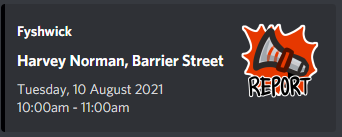
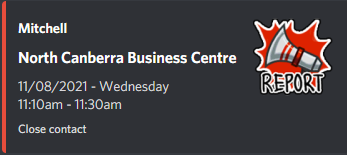
Update to parse new site format

Changed region(s): [[0.0, 0.0, 0.9649, 0.9927]]

diff --git a/bot.py b/bot.py
@@ -7,6 +7,8 @@ import sys
 import traceback
 import pickle
 import asyncio
+from datetime import datetime
+import re
 
 import discord
 from discord.ext import commands, tasks
@@ -23,30 +25,12 @@ url = 'https://www.covid19.act.gov.au/act-status-and-response/act-covid-19-expos
 def parse_url(url):
 	"""
 		Given a url, scrapes the url for cases and returns them as a pandas DataFrame
-		Inspired from: https://towardsdatascience.com/web-scraping-html-tables-with-python-c9baba21059
 	"""
 	page = requests.get(url)
-	doc = lh.fromstring(page.content)
-	tr_elements = doc.xpath('//tr')
+	page_text = page.text
+	latest_cases = re.search('".*csv"', page.text).group(0)
 
-	header = ['Status', 'Suburb', 'Place', 'Date', 'Arrival Time', 'Departure Time']
-	header2 = ['Status', 'Suburb', 'Place', 'Date', 'Arrival time', ' Departure time'] # Monitor for symptoms header is slightly different
-
-	df = dict()
-
-	i = 0
-	exposure_type = 0
-
-	for t in tr_elements:
-		content = [cell.text_content().replace('\n', '').replace('\r', '').replace('\xa0', '') for cell in t]
-
-		if (pd.Series(content) == pd.Series(header)).all() or (pd.Series(content) == pd.Series(header2)).all(): # Don't add header rows
-			exposure_type += 1
-		else:
-			df[i] = content + [exposure_type]
-			i += 1
-
-	return pd.DataFrame.from_dict(df, orient = 'index', columns = header + ['Exposure Type']).drop('Status', axis = 1) # Status column is not useful
+	return pd.read_csv(latest_cases[1:-1]).drop(['Event Id', 'Status', 'State'], axis = 1) # Remove quote marks from url
 
 class MyClient(commands.Bot):
 	server_settings = None
@@ -81,19 +65,19 @@ class MyClient(commands.Bot):
 			Given a location, send a formatted embed to the given channel
 		"""
 		suburb = location_info['Suburb']
-		place = location_info['Place'].replace('FAQs for schools', '')
+		place = location_info['Exposure Site'].replace('FAQs for schools', '')
 		date = location_info['Date']
 		arrival = location_info['Arrival Time']
 		departure = location_info['Departure Time']
-		severity = location_info['Exposure Type']
+		severity = location_info['Contact']
 
-		if severity == 1:
+		if severity == 'Close':
 			footer = 'Close contact'
 			colour = 0xe74c3c
-		elif severity == 2:
+		elif severity == 'Casual':
 			footer = 'Casual contact'
 			colour = 0xe67e22
-		elif severity == 3:
+		else:
 			footer = 'Monitor for symptoms'
 			colour = 0x3498db
 
@@ -135,12 +119,6 @@ class MyClient(commands.Bot):
 						await self.unsubscribe(message.channel, locations = command[1:])
 					else:
 						await self.unsubscribe(message.channel)
-				elif command[0] == 'get_settings':
-					print(self.server_settings)
-				elif command[0] == 'update_save':
-					self.locations = pd.read_csv(saved_locations)
-					await message.channel.send('Updated')
-
 		except:
 			print(traceback.format_exc())
 
@@ -212,37 +190,20 @@ class MyClient(commands.Bot):
 		"""
 			Check for new cases and send notifications to subscribed channels
 		"""
+		print('%s - Checking for new cases' % datetime.now().strftime('%H:%M:%S'))
+
 		prev_locations = self.locations
 		updated_locations = parse_url(url)
 
-		# Determine new cases by comparing with number of previous cases of that type
+		print('Previous size: %s - Updated size: %s' % (prev_locations.shape[0], updated_locations.shape[0]))
 
-		prev_close = prev_locations[prev_locations['Exposure Type'] == 1]
-		prev_casual = prev_locations[prev_locations['Exposure Type'] == 2]
-		prev_monitor = prev_locations[prev_locations['Exposure Type'] == 3]
+		new_cases = updated_locations[updated_locations['Contact'] == 4] # Just a cheeky way to get an empty dataframe with the right header
 
-		updated_close = updated_locations[updated_locations['Exposure Type'] == 1]
-		updated_casual = updated_locations[updated_locations['Exposure Type'] == 2]
-		updated_monitor = updated_locations[updated_locations['Exposure Type'] == 3]
-
-		new_cases = updated_locations[updated_locations['Exposure Type'] == 4] # Just a cheeky way to get an empty dataframe with the right header
-
-		if updated_close.shape[0] > prev_close.shape[0]:
-				new_close = updated_close.iloc[prev_close.shape[0]:]
-				new_cases = new_cases.append(new_close)
-
-		if updated_casual.shape[0] > prev_casual.shape[0]:
-				new_casual = updated_casual.iloc[prev_casual.shape[0]:]
-				new_cases = new_cases.append(new_casual)
-
-		if updated_monitor.shape[0] > prev_monitor.shape[0]:
-				new_monitor = updated_monitor.iloc[prev_monitor.shape[0]:]
-				new_cases = new_cases.append(new_monitor)
-
-		# Determine new locations OLD
-		# new_cases = prev_locations.append(updated_locations).drop_duplicates(subset = ['Suburb', 'Place', 'Date'], keep = False)
+		# Determine new locations
+		new_cases = prev_locations.append(updated_locations).drop_duplicates(subset = ['Exposure Site', 'Suburb', 'Date'], keep = False)
 
 		if new_cases.shape[0] == 0:
+			print('No new cases found')
 			return False
 
 		# Update locations on disk
@@ -269,8 +230,11 @@ class MyClient(commands.Bot):
 
 	# Check for new cases (some checks )
 	async def poll_cases(self):
-		if self.server_settings is not None and self.locations is not None:
-			await self.check_new_cases(url)		
+		try:
+			if self.server_settings is not None and self.locations is not None:
+				await self.check_new_cases(url)		
+		except:
+			print(traceback.format_exc())
 
 client = MyClient('!')
 

diff --git a/README.md b/README.md
@@ -1,6 +1,6 @@
 # Discord ACT COVID-19 Notifications
 Discord bot that periodically scrapes the ACT COVID-19 website for exposure sites and sends alerts.
-<img src= "example.png" width= "342" height= "137">
+<img src= "example.png" width= "347" height= "155">
  
 # Contents #
 [Installation](#installation)  
@@ -19,11 +19,11 @@ python bot.py
   
 # Commands  
 **Subscribe**: !subscribe *[loc1]* *[loc2]* ..  
-Subscribe a channel to notifications. Optional arguments are if you only want to be notified about particular suburbs. Replace spaces with underscores.
+Subscribe a channel to notifications. Optional arguments are if you only want to be notified about particular suburbs. Replace suburbs with spaces with underscores.
 
 
 **Unsubscribe**: !unsubscribe *[loc1]* *[loc2]* ..  
-Unsubscribe a channel to notifications. Optional arguments are if you only want to remove notifications for particular suburbs. Replace spaces with underscores.
+Unsubscribe a channel to notifications. Optional arguments are if you only want to remove notifications for particular suburbs. Replace suburbs with spaces with underscores.
 
 
 **Subscribed**: !subscribed  
